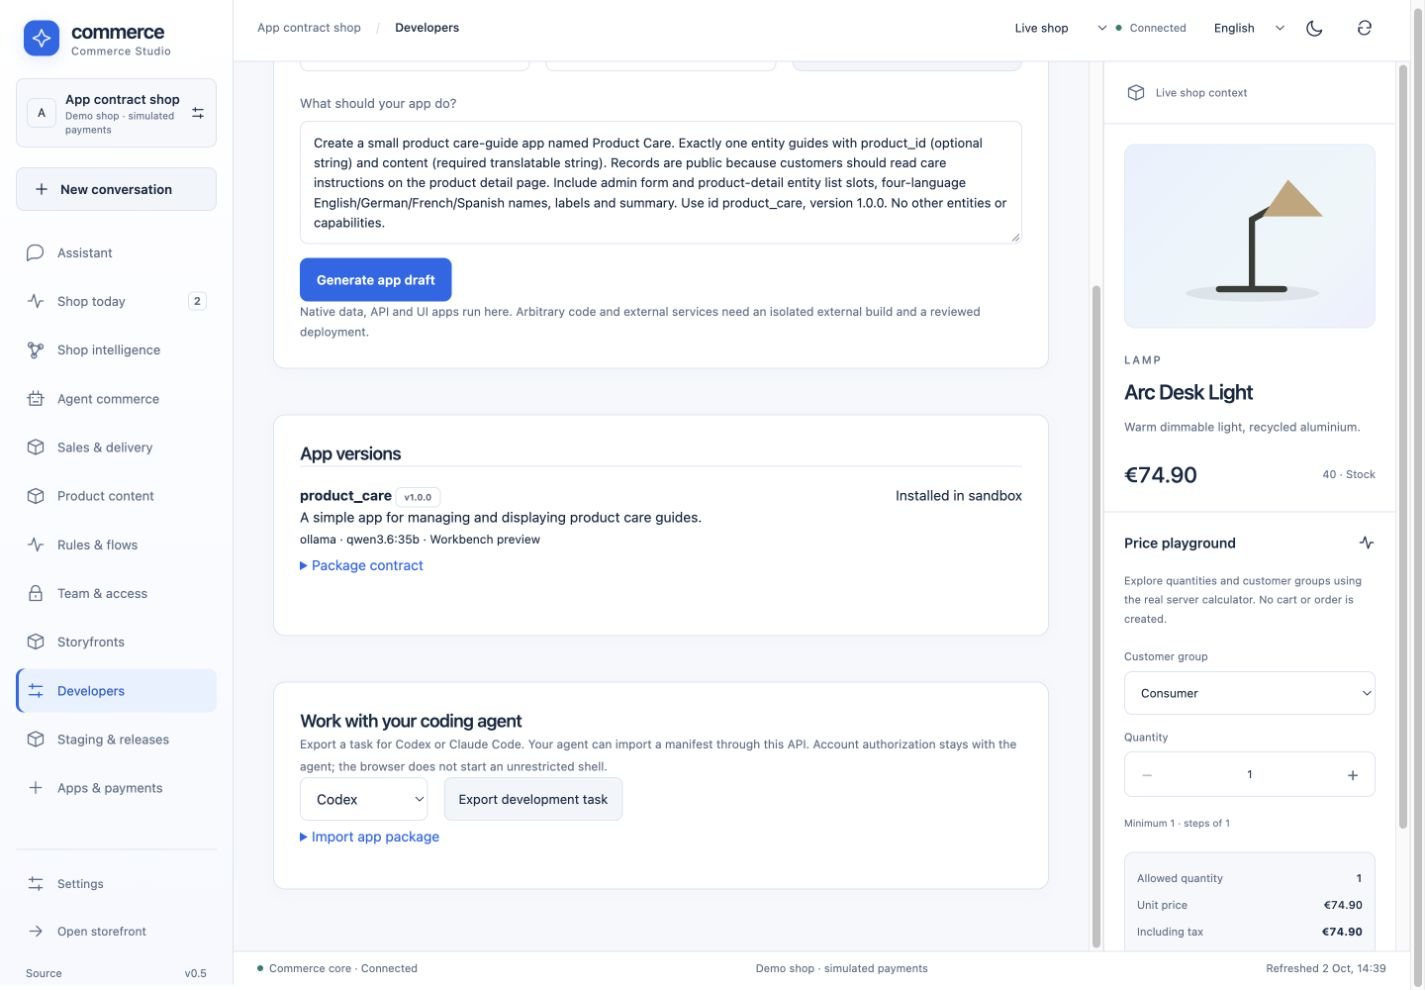
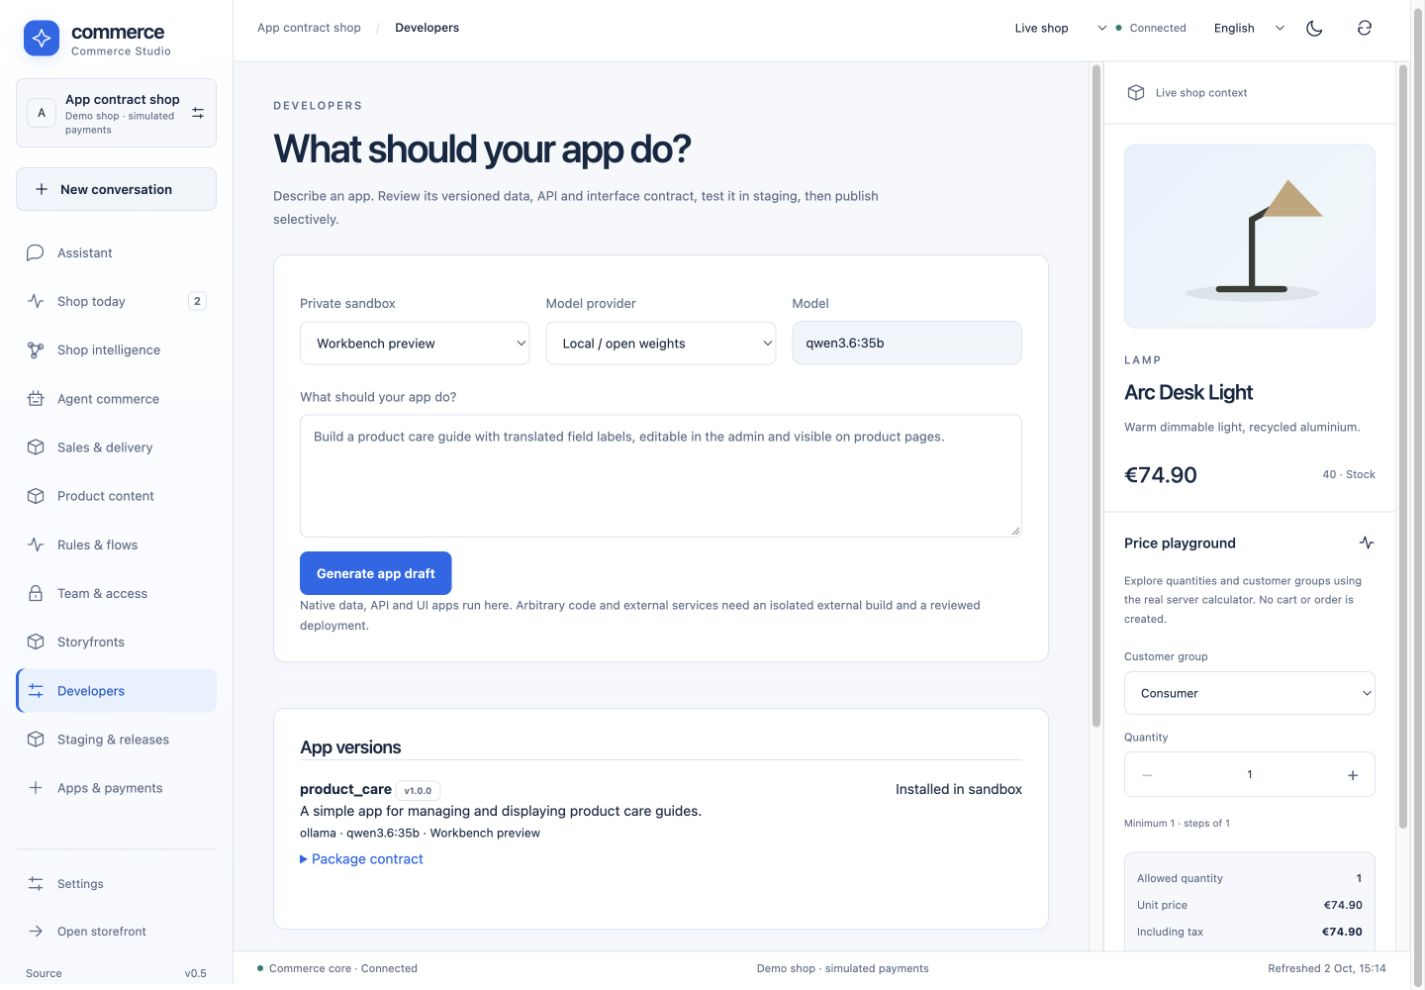
Make coding-agent exports work with public backends and local MCP helpers

diff --git a/frontend/src/DeveloperView.tsx b/frontend/src/DeveloperView.tsx
@@ -109,7 +109,7 @@ export default function DeveloperView({
                     ? "Claude"
                     : p.id === "openai"
                       ? "OpenAI"
-                      : p.name}
+                      : w("localModel")}
                 </option>
               ))}
             </select>

diff --git a/src/developer/routes.rs b/src/developer/routes.rs
@@ -90,7 +90,20 @@ pub(crate) async fn task(
         .as_str()
         .filter(|s| s.len() <= 8000)
         .ok_or(bad("Prompt required"))?;
+    let origin =
+        env::var("COMMERCE_PUBLIC_ORIGIN").unwrap_or_else(|_| "http://127.0.0.1:8787".into());
+    let url = reqwest::Url::parse(&origin).map_err(|_| bad("Invalid public commerce origin"))?;
+    let local = matches!(url.host_str(), Some("localhost" | "127.0.0.1" | "[::1]"));
+    if (url.scheme() != "https" && !(url.scheme() == "http" && local))
+        || !url.username().is_empty()
+        || url.password().is_some()
+        || url.path() != "/"
+        || url.query().is_some()
+        || url.fragment().is_some()
+    {
+        return Err(bad("Invalid public commerce origin"));
+    }
     Ok(Json(
-        json!({"task":format!("Build a declarative Rust Commerce app. Requirements: {prompt}\nTarget private sandbox: {env}. Localize name and slot labels in en/de/fr/es. Read the appSchema and installed GET /api/apps examples returned with this task. Return a versioned manifest via POST /api/developer/import with environment, prompt, summary and manifest. Stage via POST /api/developer/builds/{{id}}/stage with approve=true and digest. Test data/API/UI in the sandbox. Never publish to live without a merchant's explicit selected release. Services and arbitrary executable code need a separate isolated builder and review."),"appSchema":generation::schema(),"mcpEndpoint":"/mcp","mcpConfig":{"mcpServers":{"rust-commerce-dev":{"command":"python3","args":[env::current_dir().unwrap().join("scripts/mcp_stdio.py").to_string_lossy()],"env":{"COMMERCE_URL":"http://127.0.0.1:8787","COMMERCE_TENANT":t,"COMMERCE_SESSION_TOKEN":"<personal session token; store locally only>"}}}},"credentials":"Use your personal merchant session. Export does not include credentials.","agent":v["agent"]}),
+        json!({"task":format!("Build a declarative Rust Commerce app. Requirements: {prompt}\nTarget private sandbox: {env}. Localize name and slot labels in en/de/fr/es. Read the appSchema and installed GET /api/apps examples returned with this task. Return a versioned manifest via POST /api/developer/import with environment, prompt, summary and manifest. Stage via POST /api/developer/builds/{{id}}/stage with approve=true and digest. Test data/API/UI in the sandbox. Never publish to live without a merchant's explicit selected release. Services and arbitrary executable code need a separate isolated builder and review."),"appSchema":generation::schema(),"mcpEndpoint":"/mcp","mcpConfig":{"mcpServers":{"rust-commerce-dev":{"command":"python3","args":["scripts/mcp_stdio.py"],"env":{"COMMERCE_URL":url.origin().ascii_serialization(),"COMMERCE_TENANT":t,"COMMERCE_SESSION_TOKEN":"<personal session token; store locally only>"}}}},"credentials":"Use your personal merchant session. Export does not include credentials. Run this MCP configuration from your local repository checkout; the helper is client-side.","agent":v["agent"]}),
     ))
 }

diff --git a/scripts/developer_documents.py b/scripts/developer_documents.py
@@ -63,6 +63,9 @@ try:
  passed('Structured prompt generates immutable app, typed translated fields persist in sandbox, unknown translation keys rejected')
  tools=call('/mcp',{'jsonrpc':'2.0','id':1,'method':'tools/list'},a)['result']['tools'];assert any(t['name']=='developer.import' for t in tools)
  public=call('/mcp',{'jsonrpc':'2.0','id':1,'method':'tools/list'},tenant=slug)['result']['tools'];assert not any(t['name'].startswith('developer.') for t in public)
+ task=call('/mcp',{'jsonrpc':'2.0','id':2,'method':'tools/call','params':{'name':'developer.task','arguments':{'environment':e['id'],'prompt':'Extend the care app','agent':'codex'}}},a)['result']['structuredContent']
+ assert task['agent']=='codex' and task['mcpConfig']['mcpServers']['rust-commerce-dev']['args']==['scripts/mcp_stdio.py']
+ assert a['token'] not in json.dumps(task) and task['appSchema'] and e['id'] in task['task']
  passed('Codex/Claude MCP development tools are present only for authorized merchant roles')
  doc=call('/api/knowledge/documents',{'title':'Cup data sheet','productId':'mug','content':'Dishwasher safe stoneware cup. Capacity: 500 ml.'},a)
  behavior['mode']='de-DE'

diff --git a/docs/workbench.md b/docs/workbench.md
@@ -38,7 +38,9 @@ Codex and Claude Code can use the exported task, schema and local MCP bridge.
 `developer.builds`, `developer.import`, `developer.stage` and `developer.task`
 are exposed only to permitted merchant roles. Set `COMMERCE_SESSION_TOKEN`
 locally in the client configuration; exported tasks contain a placeholder, never
-credentials. The developer tab does not log into a consumer ChatGPT/Claude
+credentials. Run the exported helper from a local repository checkout;
+`COMMERCE_PUBLIC_ORIGIN` selects the HTTPS backend for deployed installations.
+The developer tab does not log into a consumer ChatGPT/Claude
 account or run arbitrary shell code. Model API integration and external coding
 client integration are distinct mechanisms.
 
